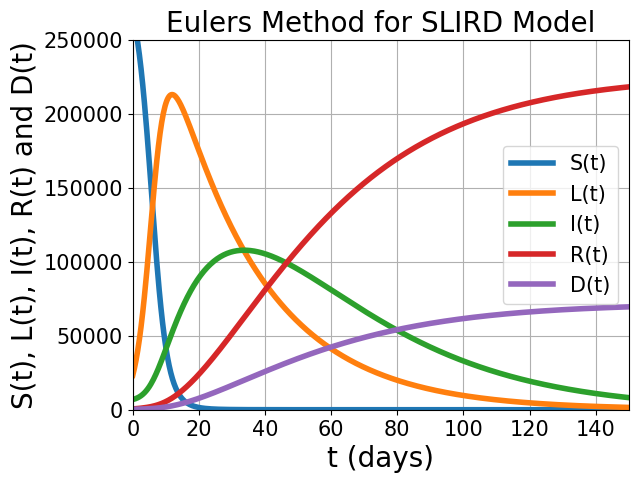
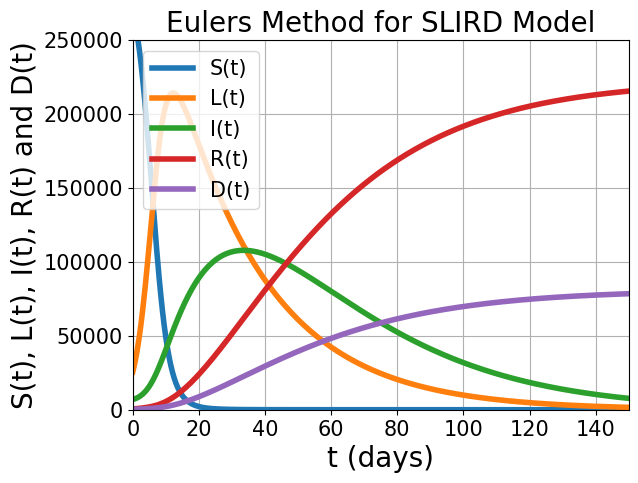
22/04/2020

diff --git a/models/slihurd.py b/models/slihurd.py
@@ -1,0 +1,230 @@
+# Project	: MathsAgainstTheCOVID19, Euler's method for epidemics
+# Author    : Víctor Loureiro Sancho
+# Created   : April, 2020
+
+import numpy as np
+import matplotlib.pyplot as plt
+import csv
+
+# Initializations
+dt = 1/4   		# timestep Delta t
+t_init = 0      # initial time
+t_end = 35     	# stopping time
+
+n_steps = int(round((t_end-t_init)/dt)) # total number of timesteps
+
+X = np.zeros(7)                   # create space for current X=[S,L,I,H,U,R,D]^T
+dXdt = np.zeros(7)                # create space for current derivative
+t_arr = np.zeros(n_steps + 1)     # create a storage array for t
+X_arr = np.zeros((7,n_steps+1))   # create a storage array for X=[S,L,I,H,U,R,D]^T
+
+# Known Data Acquisition
+I_real = []; H_real = []; U_real = []; R_real = []; D_real = [];
+with open('../input/slihurd.csv') as File:  
+	reader = csv.DictReader(File)
+	for row in reader:
+		fila = str(row).split(';')
+		for i in range(len(fila)):
+			fila[i] = fila[i].replace("'}","")
+			fila[i] = fila[i].replace("{'","")
+		I_real.append(int(fila[6]))
+		H_real.append(int(fila[7]))
+		U_real.append(int(fila[8]))
+		R_real.append(int(fila[9]))
+		D_real.append(int(fila[10]))
+
+S_init = np.linspace(275000,350000,10)	# initial population of S
+L_init = np.linspace(0,50000,10)		# initial population of L
+I_init = I_real[0]         		  		# initial population of I
+H_init = H_real[0]         		  		# initial population of H
+U_init = U_real[0]         		  		# initial population of U
+R_init = R_real[0]         		  		# initial population of R
+D_init = D_real[0]         		  		# initial population of D
+
+# SLIHURD Model Parameters 
+BETA = np.linspace(0.1,0.3,3)		# contagion probability
+GAMMA_L = np.linspace(0.1,0.3,2)	# (1/Duracion)
+GAMMA_I = np.linspace(0.005,0.01,2)	# (1/Duracion)
+GAMMA_H = np.linspace(0.1,0.15,2)	# (1/Duracion)
+GAMMA_U = np.linspace(0.01,0.05,2)	# (1/Duracion)
+ALFA_I = np.linspace(0.05,0.1,2)	# Hospital probability
+ALFA_H = np.linspace(0.02,0.07,2)	# ICUed probability
+MU_H = np.linspace(0.005,0.01,2)	# hospitalized lethality
+MU_U = np.linspace(0.05,0.1,2)		# ICUed lethality
+
+# Calibration Process with known data
+best_si = 0; best_li = 0; best_beta = 0; best_gamma_l = 0; best_gamma_i = 0; best_gamma_h = 0; best_gamma_u = 0; best_alfa_i = 0; best_alfa_h = 0; best_mu_h = 0; best_mu_u = 0;
+max_accuracy_i = 0; max_accuracy_h = 0; max_accuracy_u = 0; max_accuracy_r = 0; max_accuracy_d = 0; max_average_accuracy = 0;
+
+for Si in S_init:
+	for Li in L_init:
+		for b in BETA:
+			for gl in GAMMA_L:
+				for gi in GAMMA_I:
+					for gh in GAMMA_H:
+						for gu in GAMMA_U:
+							for ai in ALFA_I:
+								for ah in ALFA_H:
+									for mh in MU_H:
+										for mu in MU_U:
+
+											X_arr[0,0] = Si     		# add the initial S to the storage array
+											X_arr[1,0] = Li     	  	# add the initial L to the storage array
+											X_arr[2,0] = I_init     	# add the initial I to the storage array
+											X_arr[3,0] = H_init     	# add the initial H to the storage array
+											X_arr[4,0] = U_init     	# add the initial U to the storage array
+											X_arr[5,0] = R_init     	# add the initial R to the storage array
+											X_arr[6,0] = D_init     	# add the initial D to the storage array
+											t_arr[0] = t_init       	# add the initial t to the storage array
+
+											# Euler's Method for SLIHURD Model
+											for i in range (1, n_steps + 1):
+											    
+											    t = t_arr[i-1]      # load the time
+											    S = X_arr[0,i-1]    # load the value of S
+											    L = X_arr[1,i-1]    # load the value of L
+											    I = X_arr[2,i-1]    # load the value of I
+											    H = X_arr[3,i-1]    # load the value of H
+											    U = X_arr[4,i-1]    # load the value of U
+											    R = X_arr[5,i-1]    # load the value of R
+											    D = X_arr[6,i-1]    # load the value of D
+											    N = S + L + I + H + U + R + D
+
+											    X[0] = S            # fill current state vector X=[S,L,I,H,U,R,D]^T
+											    X[1] = L
+											    X[2] = I
+											    X[3] = H
+											    X[4] = U
+											    X[5] = R
+											    X[6] = D
+
+											    dSdt = -b*S*L/N   			# calculate the derivative dS/dt
+											    dLdt = b*S*L/N - L*gl  		# calculate the derivative dL/dt
+											    dIdt = L*gl - I*(gi+ai) 	# calculate the derivative dI/dt
+											    dHdt = I*ai - H*(gh+ah+mh)	# calculate the derivative dH/dt
+											    dUdt = H*ah - U*(gu+mu)		# calculate the derivative dU/dt
+											    dRdt = I*gi + H*gh + U*gu 	# calculate the derivative dR/dt
+											    dDdt = H*mh + U*mu 			# calculate the derivative dD/dt
+
+											    dXdt[0] = dSdt      	# fill derivative vector dX/dt
+											    dXdt[1] = dLdt
+											    dXdt[2] = dIdt
+											    dXdt[3] = dHdt
+											    dXdt[4] = dUdt         
+											    dXdt[5] = dRdt
+											    dXdt[6] = dDdt
+
+											    Xnew = X + dt*dXdt      # calculate X on next time step
+											    X_arr[:,i] = Xnew       # store Xnew 
+											    t_arr[i] = t + dt       # store new t-value 
+
+											# Accuracy
+											accuracy_i = 0; accuracy_h = 0; accuracy_u = 0; accuracy_r = 0; accuracy_d = 0;
+											suma_i = 0;	suma_h = 0; suma_u = 0; suma_r = 0; suma_d = 0;
+											
+											for i in range(len(I_real)):
+												suma_i += 1 - abs((I_real[i]-X_arr[2,int(i/dt)])/I_real[i])
+												suma_h += 1 - abs((H_real[i]-X_arr[3,int(i/dt)])/H_real[i])
+												suma_u += 1 - abs((U_real[i]-X_arr[4,int(i/dt)])/U_real[i])
+												suma_r += 1 - abs((R_real[i]-X_arr[5,int(i/dt)])/R_real[i])
+												suma_d += 1 - abs((D_real[i]-X_arr[6,int(i/dt)])/D_real[i])
+
+											accuracy_i = suma_i/len(I_real); accuracy_h = suma_h/len(H_real); accuracy_u = suma_u/len(U_real); accuracy_r = suma_r/len(R_real); accuracy_d = suma_d/len(D_real);
+											average_accuracy = (accuracy_i+accuracy_h+accuracy_u+accuracy_r+accuracy_d)/5
+
+											if(average_accuracy>max_average_accuracy):
+												
+												max_accuracy_i = accuracy_i; max_accuracy_h = accuracy_h; max_accuracy_u = accuracy_u; max_accuracy_r = accuracy_r; max_accuracy_d = accuracy_d; max_average_accuracy = average_accuracy;
+												best_si = Si; best_li = Li; best_beta = b; best_gamma_l = gl; best_gamma_i = gi; best_gamma_h = gh; best_gamma_u = gu; best_alfa_i = ai; best_alfa_h = ah; best_mu_h = mh; best_mu_u = mu;
+												print("[S(0) = " + str(best_si) + "\tL(0) = " + str(best_li) + "\tBETA = " + str(best_beta) + "\tGAMMA_L = " + str(best_gamma_l) + "\tGAMMA_I = " + str(best_gamma_i) + "\tGAMMA_H = " + str(best_gamma_h) + "\tGAMMA_U = " + str(best_gamma_u) + "\tALFA_I = " + str(best_alfa_i) + "\tALFA_H = " + str(best_alfa_h) + "\tMU_H = " + str(best_mu_h) + "\tMU_U = " + str(best_mu_u) + "]\nI ACCURACY = " + str(max_accuracy_i) + "\nH ACCURACY = " + str(max_accuracy_h) + "\nU ACCURACY = " + str(max_accuracy_u) + "\nR ACCURACY = " + str(max_accuracy_r) + "\nD ACCURACY = " + str(max_accuracy_d) + "\nAVERAGE ACCURACY = " + str(max_average_accuracy) + "\n")
+
+# Euler's Calibrated Method for SLIHURD Model
+t_end = 150    							# stopping time
+n_steps = int(round((t_end-t_init)/dt)) # total number of timesteps
+
+X = np.zeros(7)                   # create space for current X=[S,L,I,H,U,R,D]^T
+dXdt = np.zeros(7)                # create space for current derivative
+t_arr = np.zeros(n_steps + 1)     # create a storage array for t
+X_arr = np.zeros((7,n_steps+1))   # create a storage array for X=[S,L,I,H,U,R,D]^T
+
+# SLIRD Model Parameters 
+BETA = best_beta	 		# contagion probability
+GAMMA_L = best_gamma_l		# (1/Duracion)
+GAMMA_I = best_gamma_i		# (1/Duracion)
+GAMMA_H = best_gamma_h		# (1/Duracion)
+GAMMA_U = best_gamma_u		# (1/Duracion)
+ALFA_I = best_alfa_i		# Hospital probability
+ALFA_H = best_alfa_h		# ICU probability
+MU_H = best_mu_h			# lethality
+MU_U = best_mu_u			# lethality
+
+X_arr[0,0] = best_si   		  # add the initial S to the storage array
+X_arr[1,0] = best_li     	  # add the initial L to the storage array
+X_arr[2,0] = I_init     	  # add the initial I to the storage array
+X_arr[3,0] = H_init     	  # add the initial H to the storage array
+X_arr[4,0] = U_init     	  # add the initial U to the storage array
+X_arr[5,0] = R_init     	  # add the initial R to the storage array
+X_arr[6,0] = D_init     	  # add the initial D to the storage array
+t_arr[0] = t_init       	  # add the initial t to the storage array
+
+for i in range (1, n_steps + 1):
+    
+    t = t_arr[i-1]      # load the time
+    S = X_arr[0,i-1]    # load the value of S
+    L = X_arr[1,i-1]    # load the value of L
+    I = X_arr[2,i-1]    # load the value of I
+    H = X_arr[3,i-1]    # load the value of H
+    U = X_arr[4,i-1]    # load the value of U
+    R = X_arr[5,i-1]    # load the value of R
+    D = X_arr[6,i-1]    # load the value of D
+    N = S + L + I + H + U + R + D
+
+    X[0] = S            # fill current state vector X=[S,L,I,H,U,R,D]^T
+    X[1] = L
+    X[2] = I
+    X[3] = H
+    X[4] = U
+    X[5] = R
+    X[6] = D
+
+    dSdt = -BETA*S*L/N   						# calculate the derivative dS/dt
+    dLdt = BETA*S*L/N - L*GAMMA_L  				# calculate the derivative dL/dt
+    dIdt = L*GAMMA_L - I*(GAMMA_I+ALFA_I) 		# calculate the derivative dI/dt
+    dHdt = I*ALFA_I - H*(GAMMA_H+ALFA_H+MU_H)	# calculate the derivative dH/dt
+    dUdt = H*ALFA_H - U*(GAMMA_U+MU_U)			# calculate the derivative dU/dt
+    dRdt = I*GAMMA_I + H*GAMMA_H + U*GAMMA_U 	# calculate the derivative dR/dt
+    dDdt = H*MU_H + U*MU_U 						# calculate the derivative dD/dt
+
+    dXdt[0] = dSdt      	# fill derivative vector dX/dt
+    dXdt[1] = dLdt
+    dXdt[2] = dIdt         
+    dXdt[3] = dHdt
+    dXdt[4] = dUdt
+    dXdt[5] = dRdt
+    dXdt[6] = dDdt
+
+    Xnew = X + dt*dXdt      # calculate X on next time step
+    X_arr[:,i] = Xnew       # store Xnew 
+    t_arr[i] = t + dt       # store new t-value
+
+# Plot the results
+fig = plt.figure()
+plt.plot(t_arr, X_arr[0,:], linewidth = 4, label="S(t)")  	# plot S vs. time
+plt.plot(t_arr, X_arr[1,:], linewidth = 4, label="L(t)")  	# plot L vs. time
+plt.plot(t_arr, X_arr[2,:], linewidth = 4, label="I(t)")  	# plot I vs. time
+plt.plot(t_arr, X_arr[3,:], linewidth = 4, label="H(t)")  	# plot H vs. time
+plt.plot(t_arr, X_arr[4,:], linewidth = 4, label="U(t)")  	# plot U vs. time
+plt.plot(t_arr, X_arr[5,:], linewidth = 4, label="R(t)")  	# plot R vs. time
+plt.plot(t_arr, X_arr[6,:], linewidth = 4, label="D(t)")  	# plot D vs. time
+
+plt.title('Eulers Method for SLIHURD Model', fontsize = 20)   				# set title
+plt.xlabel('t (days)', fontsize = 20)                   					# name of horizontal axis
+plt.ylabel('S(t), L(t), I(t), H(t), U(t), R(t) and D(t)', fontsize = 20)    # name of vertical axis
+
+plt.grid(which = 'both')                                					# set the grid
+plt.xticks(fontsize = 15)                               					# adjust the fontsize
+plt.yticks(fontsize = 15)                               					# adjust the fontsize
+plt.axis([t_init, t_end, 0, 300000])                    					# set the range of the axes
+plt.legend(fontsize=15)                                 					# show the legend
+fig.savefig('../output/slihurd.png', dpi=fig.dpi, bbox_inches = "tight") 	# save the figure as .png
+plt.show()                                              					# necessary for some platforms

diff --git a/models/slird.py b/models/slird.py
@@ -19,7 +19,7 @@ t_arr = np.zeros(n_steps + 1)     # create a storage array for t
 X_arr = np.zeros((5,n_steps+1))   # create a storage array for X=[S,L,I,R,D]^T
 
 S_init = np.linspace(260000,270000,10)	# initial population of S
-L_init = np.linspace(23000,24000,10)	# initial population of L
+L_init = np.linspace(20000,30000,10)	# initial population of L
 I_init = 6904           		  		# initial population of I
 R_init = 517            		  		# initial population of R
 D_init = 277            		  		# initial population of D
@@ -28,7 +28,7 @@ D_init = 277            		  		# initial population of D
 BETA = np.linspace(0.45,0.5,5)			# contagion probability
 GAMMA_L = np.linspace(0.035,0.04,5)	# (1/Duracion)
 GAMMA_I = np.linspace(0.025,0.03,5)	# (1/Duracion)
-MU = np.linspace(0.008,0.009,5)		# lethality
+MU = np.linspace(0.005,0.015,5)		# lethality
 
 # Calibration Process with known data
 I_real = []; R_real = []; D_real = [];
@@ -63,7 +63,7 @@ for Si in S_init:
 						X_arr[1,0] = Li     	  	# add the initial L to the storage array
 						X_arr[2,0] = I_init     	# add the initial I to the storage array
 						X_arr[3,0] = R_init     	# add the initial R to the storage array
-						X_arr[4,0] = R_init     	# add the initial D to the storage array
+						X_arr[4,0] = D_init     	# add the initial D to the storage array
 						t_arr[0] = t_init       	# add the initial t to the storage array
 
 						# Euler's Method for SLIRD Model
